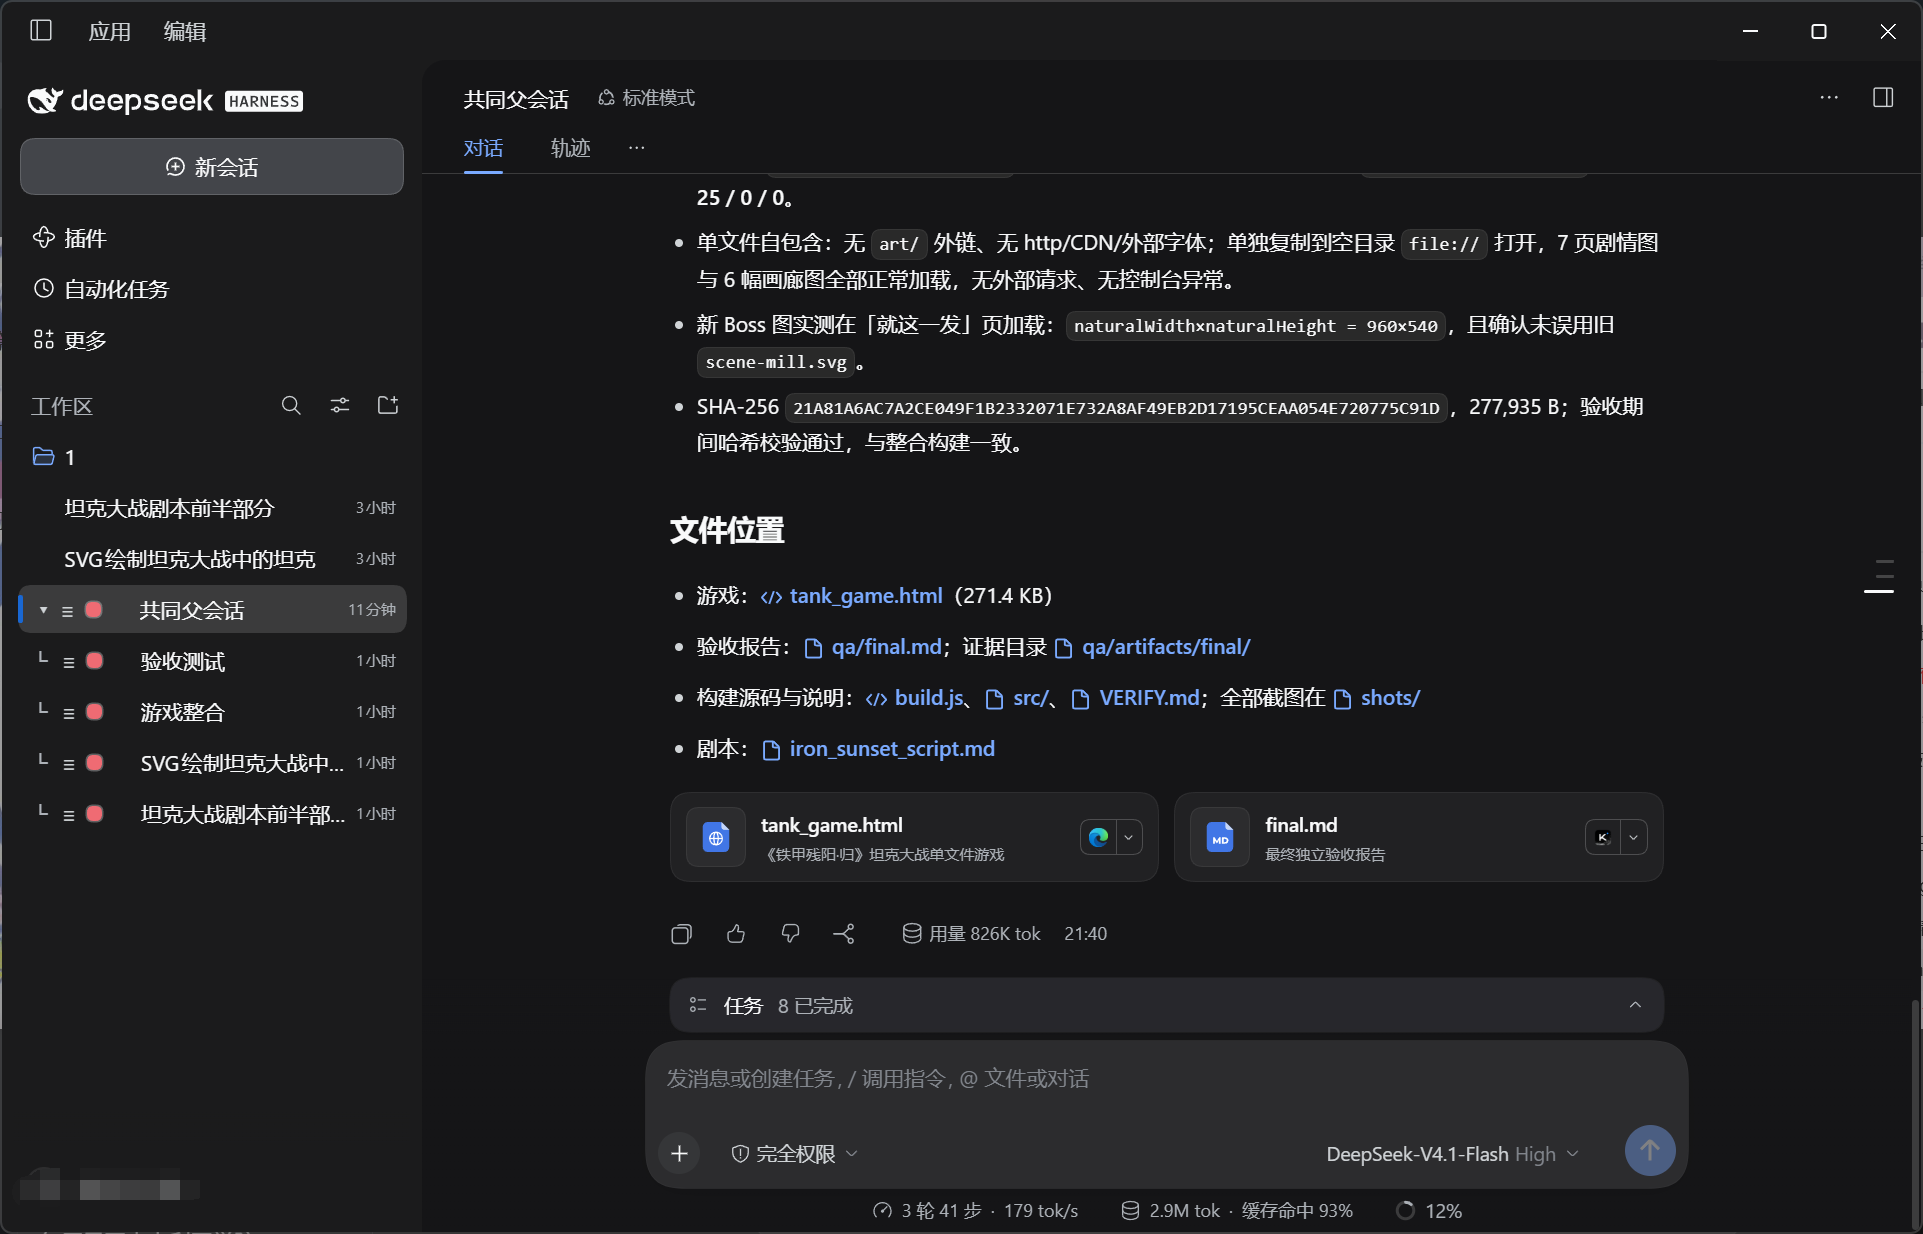
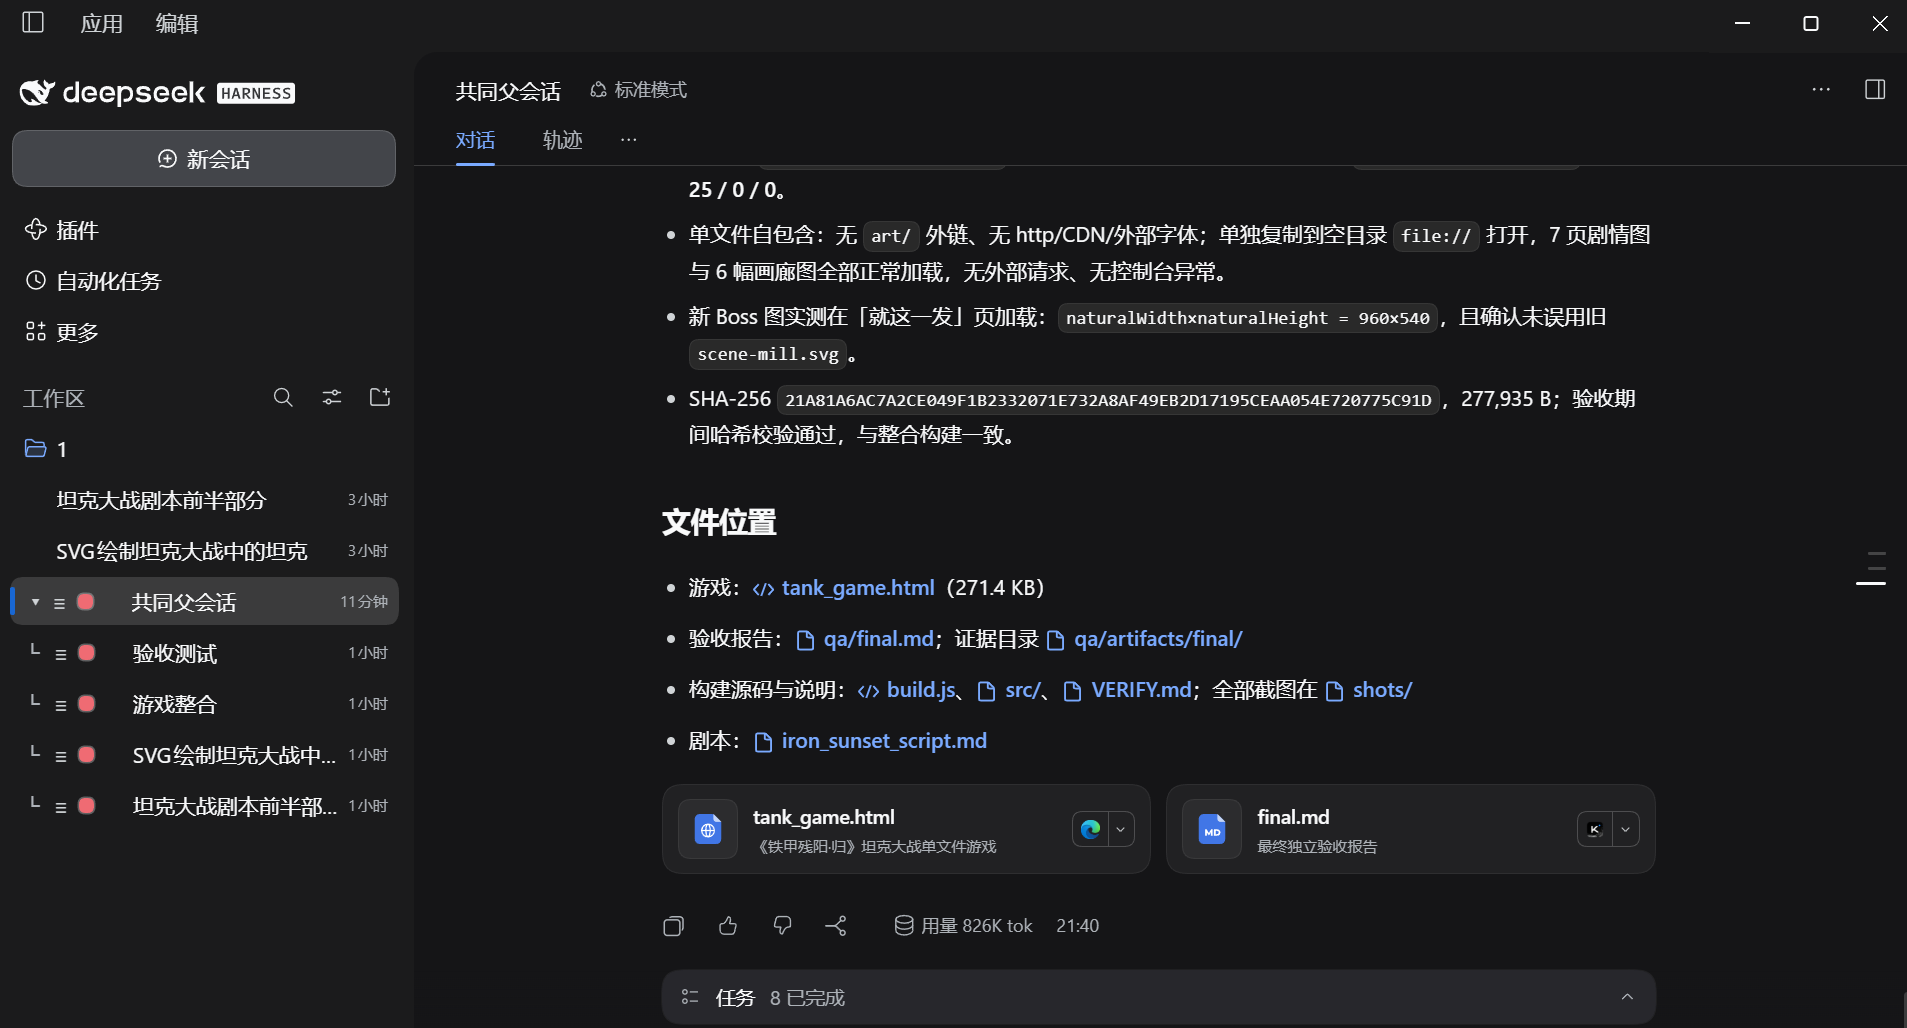
Clarify session hierarchy and crop the project screenshot

diff --git a/README.md b/README.md
@@ -1,18 +1,18 @@
 # dsh-session-tree
 
-在 DeepSeek Harness 原生侧栏里，把现有会话组织成一棵可派活、可交接产物、可继续收尾的会话树。每个子节点都是一个可打开、能单独继续聊天的 DSH 会话。
+DeepSeek Harness 会话树插件。它在 DSH 原生侧栏中组织已有会话，支持多级任务委派、依赖调度、产物交接和执行回执。树中的每个节点都是一个可独立打开和继续使用的 DSH 会话。
 
-[下载 Windows 一键安装包](https://github.com/plasticmemories-0823/dsh-session-tree/releases/latest/download/dsh-session-tree-windows.zip) · [版本记录](https://github.com/plasticmemories-0823/dsh-session-tree/releases)
+[下载 Windows 安装包](https://github.com/plasticmemories-0823/dsh-session-tree/releases/latest/download/dsh-session-tree-windows.zip) · [查看发行版本](https://github.com/plasticmemories-0823/dsh-session-tree/releases)
 
-**已验证环境**为 Windows 桌面版 DeepSeek Harness `0.2.2-rc.3`。插件使用该版本的 Workspace 客户端补丁。安装器会检查版本。先从 [DeepSeek Harness 官方项目](https://github.com/deepseek-ai/deepseek-harness) 安装对应版本，并至少打开一次。开发时才需要单独安装 Node.js。
+## 安装与卸载
 
-## 安装、升级与卸载
+已验证环境为 **Windows 桌面版 DeepSeek Harness `0.2.2-rc.3`**。插件依赖该版本的工作区客户端，安装器会检查版本。请先从 [DeepSeek Harness 官方项目](https://github.com/deepseek-ai/deepseek-harness) 安装对应版本并启动一次。使用安装包时无需单独安装 Node.js。
 
-1. 下载 Release 中的 `dsh-session-tree-windows.zip`，解压整个 ZIP。
-2. 从 DSH 菜单或托盘彻底退出应用，双击 `Install.cmd`。安装器找不到 DSH 时，选择安装目录里的 `DeepSeek Harness.exe`。如果打开程序时安装器先找到了 DSH，按提示退出后回到窗口按 Enter。
-3. 安装成功会重新打开 DSH。在原有聊天列表里操作即可。升级时重复上述步骤。
+1. 下载并完整解压 `dsh-session-tree-windows.zip`。
+2. 通过 DSH 应用菜单或系统托盘退出 DSH，双击 `Install.cmd`。如果安装器无法自动定位应用，手动选择安装目录中的 `DeepSeek Harness.exe`。
+3. 安装成功后，安装器会重新启动 DSH。在原生侧栏中即可使用会话树。升级使用相同步骤。
 
-Release 也提供独立的 `.tgz`。想走命令行时，在包所在目录运行以下命令，并把示例中的 DSH 路径替换成自己的安装路径。手动安装后请保留包文件，供 DSH 的包管理器以后使用。
+也可以下载 Release 中的 `.tgz` 手动安装。请在包所在目录运行以下命令，并将 `$dsh` 改为实际安装路径。安装后保留 `.tgz`，便于 DSH 的包管理器继续解析该依赖。
 
 ```powershell
 $dsh = 'C:\path\to\DeepSeek Harness\resources\runtime\cli\bin\dsh.cmd'
@@ -20,55 +20,64 @@ $tgz = (Resolve-Path '.\dsh-session-tree-0.7.0.tgz').Path.Replace('\', '/')
 & $dsh plugin --profile desktop add "file:$tgz"
 ```
 
-卸载前彻底退出 DSH，再运行 `& $dsh plugin --profile desktop remove dsh-session-tree`。原始聊天及插件状态会留在本机。启用插件时使用其 Workspace 补丁，卸载后回到 DSH 原版侧栏。
+卸载前退出 DSH，然后运行 `& $dsh plugin --profile desktop remove dsh-session-tree`。重启后恢复 DSH 原生侧栏。原始会话和插件状态文件仍保存在本机。
 
-## 三步开始协作
+## 快速开始
 
-1. 在同一个工作区准备两个已有会话，例如「坦克美术」和「剧本策划」。按住 **Ctrl** 逐个点选，右键选「创建共同父会话」。新父会话下会生成两份会话副本，原会话仍可独立使用。
-2. 在共同父会话发送第一条总任务。写清交付物、分工和先后顺序，例如：
+1. 在同一个工作区，按住 **Ctrl** 选择两个已有会话，然后右键选择「创建共同父会话」。插件为每个来源创建副本并挂载到新的根会话下。来源会话仍可独立使用。
+2. 在根会话发送首条任务说明。明确交付要求、执行分工和任务依赖。可以使用下面这条示例。
 
-   > 把现有剧本和 SVG 素材接成一个离线 HTML 游戏。请让美术补齐 Boss 场景，整合会话拿到图后再内联到剧情页，验收等整合完成再跑。最后核对交付文件并汇报。
+   > 请基于已有剧本和 SVG 素材交付一个离线 HTML 游戏。先由美术会话制作 Boss 场景图，再由整合会话将图内联到剧情页，最后由验收会话验证实际显示和离线运行。请核验最终文件并汇报。
 
-3. 展开父会话，点击行首的 **≡** 查看协作记录。点子会话可以看它收到的任务和实际回复。父会话派出的有依赖任务会按顺序交接，结果收齐后父会话可自动续一轮，核验并更新任务清单。
+3. 展开根会话，点击行首的 **≡** 查看分工、任务和回执。打开任一子会话，即可查看它收到的执行请求和回复。
 
-![多选已有会话后，可以合并到新会话或创建共同父会话](docs/images/create-parent.png)
+![在会话多选菜单中创建共同父会话](docs/images/create-parent.png)
 
 ## 侧栏操作
 
-| 操作 | 效果 |
+| 操作 | 行为 |
 | --- | --- |
-| 单击会话 | 打开聊天并清除选择。 |
+| 单击会话 | 打开会话并清除多选。 |
 | Ctrl + 单击 | 切换单个会话的选中状态。 |
-| Shift + 单击父节点 | 选中或取消整条分支，包含折叠的后代。 |
-| 普通拖动 | 沿用 DSH 原生排序。 |
-| Ctrl + 拖到另一行 | 复制所选会话挂到目标下。选中的后代挂到最近的已选祖先副本下。已有父会话的副本可能带上旧项目写入聊天的内容，操作时会提示。 |
-| 右键 → 创建子会话 | 在当前会话下开一个新聊天，让它带着父会话的任务背景开始工作。 |
-| 多选 → 创建共同父会话 | 为既有会话创建一个协调者。首条总任务发出后同步背景和分工。 |
-| 多选 → 合并到新会话 | 生成一个独立聊天，整合多条会话的摘要，并保留原会话的入口。 |
-| 点击颜色圆点 | 修改会话或整棵树的颜色。后代默认继承顶层颜色，解除挂载后保留标记。 |
-| 解除挂载、归档、移到回收站 | 解除挂载保留聊天。归档解除相关挂载。移到回收站会移走该会话的本地记录，已有副本和工作区文件保留。 |
+| Shift + 单击父会话 | 切换整个分支的选中状态，包含折叠的后代会话。 |
+| 普通拖动 | 按 DSH 原生规则调整会话顺序。 |
+| Ctrl + 拖到目标会话 | 将来源会话或选中的分支复制到目标会话下。选中的后代会话挂载到最近的已选祖先会话副本下。复制可能保留原聊天中的项目背景，界面会在相关操作中提示。 |
+| 右键 → 创建子会话 | 创建子会话并同步与当前任务相关的背景信息。 |
+| 多选 → 创建共同父会话 | 创建根会话并挂载来源会话的副本。发送首条任务说明后同步分工和任务背景。 |
+| 多选 → 合并到新会话 | 创建一个独立会话，整合所选会话的摘要并保留来源入口。 |
+| 点击颜色圆点 | 设置单个会话或整棵树的颜色。后代会话默认继承根会话颜色，解除挂载后保留颜色标记。 |
+| 右键 → 解除挂载 | 移除父子关系并保留会话记录。 |
+| 归档 / 移到回收站 | 归档会解除相关挂载。移到回收站会移除所选会话的本地记录，已有副本与工作区文件保留。 |
 
-![原生侧栏中的分工、会话树和颜色标记](docs/images/session-tree.png)
+![原生侧栏中的会话层级、职责分工和颜色标记](docs/images/session-tree.png)
 
-## 派活、回执与断点续跑
+## 任务调度与回执
 
-有子节点的顶层会话负责分工、只读核验和汇报。子会话可直接执行，也可继续派给自己的直属助理。与子会话单独聊天会留下回执，父会话可以在下一轮读到。父会话主动停止或归档时，自动续跑会暂停。
+**根会话**是会话树中没有父会话的节点。根会话拥有子会话时，承担任务拆分、委派、只读核验和结果汇报。**父会话**和**子会话**描述相邻的两层关系。中间层会话既是上一级的子会话，也是下一层的父会话。它可以执行任务，也可以委派给自己的直属子会话。
 
-- `session_tree_list` 查询直属分工，`session_tree_create` 为缺少的角色开新会话。
-- `session_tree_send` 派活。可用 `after` 指定同一个父会话的前置任务 ID，Host 会等上游结束后附上产物路径和回执。
-- `session_tree_result` 查询任务结果，长回复可以分页读取。合并后的会话可通过 `session_tree_read_source` 查看来源。
-- 子会话结束时，Host 先保存执行状态、原始回复和明确列出的产物路径，再异步压缩摘要。超限会重压并保存分段进度。摘要失败时仍可交接原文；遇到「待核对」，可先打开对应子会话核实，避免重复执行。
-- 关系、配色、派发记录和回执保存在 `$DSH_HOME/session-tree/state.json`，默认在用户的 `.dsh` 目录。派活、摘要和自动续跑使用 DSH 配置的模型，可能产生模型用量。
+| 工具 | 用途 |
+| --- | --- |
+| `session_tree_list` | 查询直属子会话及其职责。 |
+| `session_tree_create` | 创建可在侧栏打开的直属子会话。 |
+| `session_tree_send` | 委派任务。通过 `after` 指定同一父会话下的前置任务 ID，前置任务完成后，插件将回执和产物路径附到下游请求。 |
+| `session_tree_result` | 查询执行状态和回执，支持分页读取长回复。 |
+| `session_tree_read_source` | 查看合并会话的来源及对应历史。 |
 
-### 实例 · 《铁甲残阳》
+子会话结束一轮执行时，插件先保存执行状态、原始回复和明确列出的产物路径，再异步生成摘要。摘要超限时会重新压缩，分段进度会持久化。摘要失败时，原始回复仍可用于查询和产物交接。
 
-由原有的剧本、美术会话组建项目树。旧版曾因摘要失败，导致新画好的 Boss 场景没有交到游戏整合。用 `0.7.0` 在原会话续跑时，恢复的美术回执把 SVG 路径交给了原整合会话，整合完成后验收自动开跑，父会话最终更新了全部 **8 项任务**。最终单文件 HTML 通过 **64 项全量验收**和 **25 项专项验收**。
+父会话在运行时可以读取新回执。父会话已进入空闲状态时，插件可在该批委派任务结算后自动启动一轮后续处理，用于核验产物、更新任务清单和汇报结果。用户直接在子会话中发起的对话只生成回执，由父会话在下一轮推理时读取。父会话主动停止或被归档时，自动续跑暂停。任务显示「待核对」时，可打开对应子会话检查执行记录。
 
-![原父会话交付单文件游戏与验收报告，任务清单显示全部八项完成](docs/images/completed-project.png)
+会话层级、配色、任务和回执保存在 `$DSH_HOME/session-tree/state.json`，默认位于当前用户的 `.dsh` 目录。任务执行、摘要和自动续跑使用 DSH 配置的模型，可能产生模型用量。
+
+### 项目示例 · 《铁甲残阳》
+
+从剧本和美术会话建立会话树后，父会话委派了美术、整合和验收任务。升级至 `0.7.0` 后，插件从原会话恢复了此前摘要失败的美术回执，将 Boss 场景图的路径随任务交给整合会话。整合完成后，验收会话自动启动。收到结果后，根会话更新了全部 **8 项任务**。最终单文件 HTML 通过 **64 项全量验收**和 **25 项专项验收**。
+
+![根会话交付单文件游戏与验收报告，任务清单显示八项已完成](docs/images/completed-project.png)
 
 ## 从源码构建
 
-在 Node.js 24+ 下执行：
+使用 Node.js 24 或更新版本。
 
 ```powershell
 npm ci --legacy-peer-deps
@@ -78,6 +87,6 @@ npm pack
 powershell -NoProfile -File scripts/package-windows.ps1
 ```
 
-最后一条命令在 `dist/` 生成 Windows 安装 ZIP、独立插件包和 SHA-256 校验文件。浏览器回归测试使用真实 DSH 桌面 Host 和 Web 客户端，用本地模拟模型验证派活、失败回退、依赖交接与恢复，详见 [开发验收说明](docs/testing.md)。
+Windows 打包脚本在 `dist/` 生成安装 ZIP、独立插件包及 SHA-256 校验文件。桌面回归测试运行真实 DSH Host 和 Web 客户端，使用本地模拟模型验证任务委派、原文回执回退、依赖调度和恢复流程。[开发与测试说明](docs/testing.md)
 
-项目采用 [MIT 许可证](LICENSE)。打包时使用的上游 Workspace 客户端保留 [DeepSeek 版权和许可证](LICENSE-DSH.txt)。本项目是 DeepSeek Harness 的独立社区插件。
+本项目是 DeepSeek Harness 的独立社区插件，采用 [MIT 许可证](LICENSE)。打包时使用的上游工作区客户端保留 [DeepSeek 版权及许可证声明](LICENSE-DSH.txt)。
